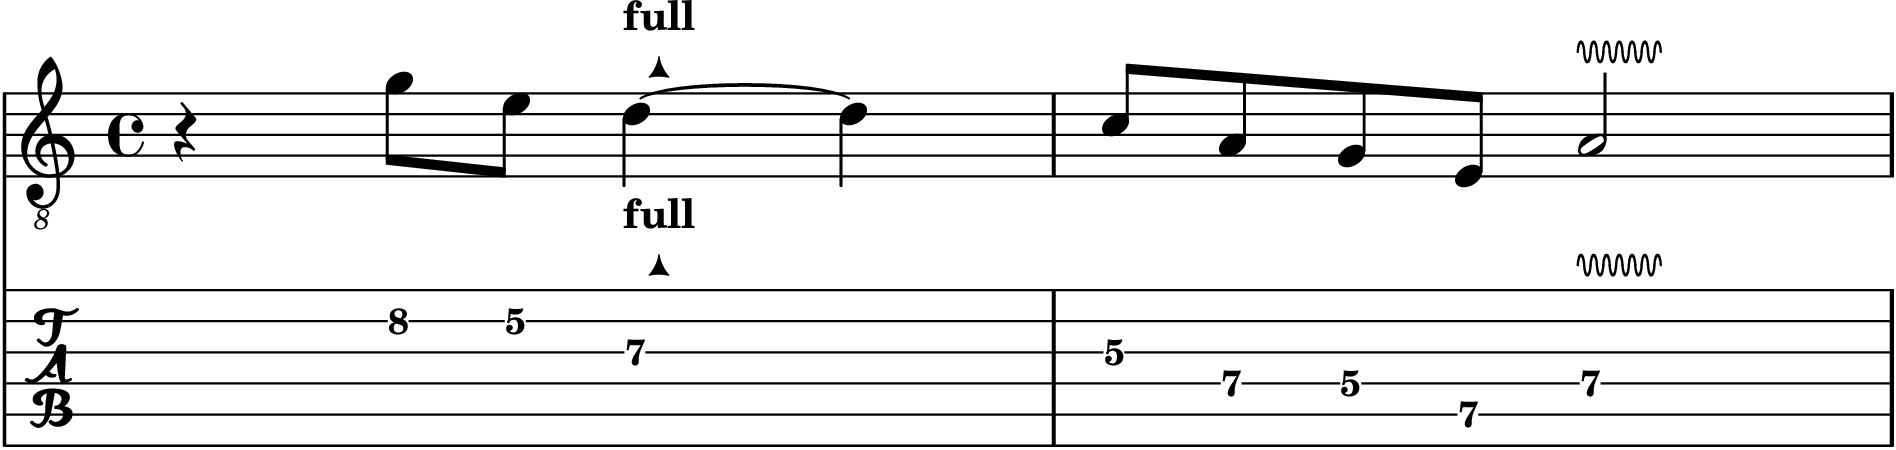
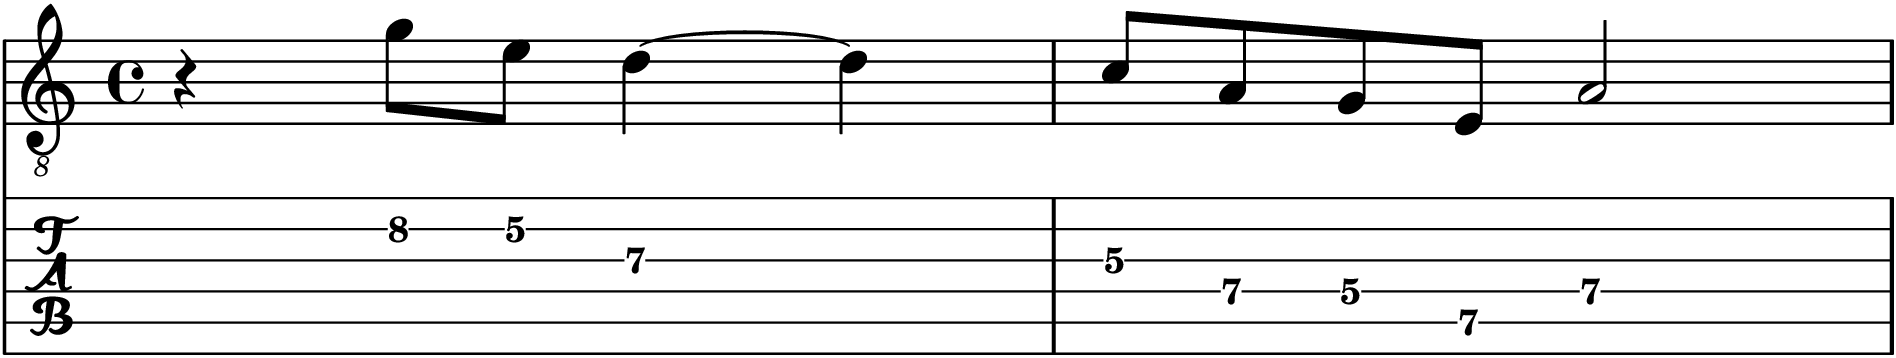
Hito 1: sacar bending y vibrato — son técnica del Hito 2, no de 'El Mapa'
Feli lo detectó en vivo: una alumna sin bending desarrollado se trabó en un
ejercicio del Hito 1, que se supone es geografía pura ('El Mapa'). Verificado
contra gen_scores.py (no hay gen_scores_h1.py separado, el Hito 1 vive ahí):
tenía razón. 4 de los 16 ejercicios usaban bending y/o vibrato de verdad —
un primer grep -c había dado falso positivo porque contaba también la
definición de plantilla que aparece en todo .ly, no el uso real dentro del
bloque musica={...}.

- Ej. 4 ('Tu primer lick con sabor', el nombre ya lo decía): bending + vibrato
  en la semana 1, antes de que el Hito 2 exista en el camino del alumno.
- Ej. 8: bending + vibrato en la semana 2.
- Ej. 11: vibrato largo de cierre, semana 3.
- Ej. 16 (el solo de evaluación, el entregable): 3 vibratos — réplica de lo
  de arriba, consecuencia directa, no un bug aparte.
- Estaba también en el glosario de notación y en la rutina diaria ('Acá
  aparece el sabor: bending, vibrato, slide' — la marca del Hito 2, adentro
  del Hito 1), y el checklist de cierre pedía certificar dominio de las dos
  técnicas antes de que el programa las hubiera enseñado en ningún lado.

Arreglo: se sacó el markup \bendFull/\vib de gen_scores.py sin tocar una
sola nota ni el ritmo — mismo fraseo, misma digitación. El ej. 8 conserva
su slide (eso sí es Hito 1 legítimo, el puente del ej. 7). Se actualizó el
texto de build_hito1.py (títulos, glosario, rutina, 2 filas del checklist)
y se documentó en memoria/10, sección 35.
[…]

diff --git a/scripts/build_hito1.py b/scripts/build_hito1.py
@@ -49,11 +49,8 @@ S.append(Paragraph(
 S.append(tabla([
     [Paragraph("<b>Símbolo</b>", CELLB), Paragraph("<b>Qué es</b>", CELLB), Paragraph("<b>Cómo se toca</b>", CELLB)],
     [Paragraph("línea entre dos números", CELL), Paragraph("Slide", CELL),
-     Paragraph("Tocás la primera y te deslizás a la segunda sin levantar el dedo ni volver a puntear.", CELL)],
-    [Paragraph('"bend 1 tono"', CELL), Paragraph("Bending", CELL),
-     Paragraph("Empujás la cuerda hasta que suene DOS trastes más arriba. Afinado, o no cuenta.", CELL)],
-    [Paragraph('"vibrato"', CELL), Paragraph("Vibrato", CELL),
-     Paragraph("Movés la cuerda arriba y abajo, parejo. Es tu firma: sin vibrato la nota queda muerta.", CELL)],
+     Paragraph("Tocás la primera y te deslizás a la segunda sin levantar el dedo ni volver a puntear. Es el "
+               "único movimiento nuevo de este mes — el que te lleva de una caja a otra.", CELL)],
     [Paragraph("punto rojo con A", CELL), Paragraph("Tónica (La)", CELL),
      Paragraph("Tu casa. Empezar y terminar frases ahí es lo que hace que suene resuelto.", CELL)],
 ], [3.2 * cm, 2.4 * cm, W - 5.6 * cm]))
@@ -66,7 +63,7 @@ S.append(tabla([
     [Paragraph("5–10", CELLB), Paragraph("Secuencias / tónicas", CELL),
      Paragraph("Que la mano deje de ir en línea recta y el oído ubique el LA.", CELL)],
     [Paragraph("10–15", CELLB), Paragraph("El lick o el puente de la semana", CELL),
-     Paragraph("Acá aparece el sabor: bending, vibrato, slide.", CELL)],
+     Paragraph("Acá conectás territorio: el slide que te cruza de caja, o el ritmo que convierte la escala en frase.", CELL)],
     [Paragraph("15–20", CELLB), Paragraph("<b>Improvisás</b> sobre backing en Lam", CELL),
      Paragraph("Sin papel. Usás SOLO lo de esta semana. Es la parte más importante.", CELL)],
 ], [1.5 * cm, 6.4 * cm, W - 7.9 * cm]))
@@ -144,11 +141,11 @@ S.append(ejercicio(3, "Secuencia de a 4 (romper la línea recta)", (
     "del cuadernillo y el que más se te va a notar."),
     "e03", W, "60 BPM, meta 75. Si te trabás, hacé solo el primer compás 20 veces antes de seguir."))
 
-S.append(ejercicio(4, "Tu primer lick con sabor", (
-    "Cuatro tiempos de música de verdad. El <b>bending de 1 tono</b> va en la 3ª cuerda traste 7: empujás hasta "
-    "que suene igual que el traste 9. Compará: tocá el 9, escuchalo, después bendeá el 7 hasta que suene "
-    "idéntico. El <b>vibrato</b> del final es lo que separa a un alumno de un guitarrista: movelo parejo, sin apuro."),
-    "e04", W, "Repetilo 10 veces por día toda la semana. Grabate el viernes y escuchá si el bending llega afinado."))
+S.append(ejercicio(4, "Una frase, no una escala", (
+    "Cuatro tiempos con un silencio adelante y una nota larga en el medio — todavía no hay ningún truco nuevo "
+    "en la mano. Lo que cambia es el <b>ritmo</b>: dejás de subir y bajar parejo, y eso solo ya alcanza para "
+    "que suene a frase y no a ejercicio."),
+    "e04", W, "Repetilo 10 veces por día toda la semana. Tocalo con el backing y fijate que respetás el silencio del principio."))
 
 # ============================================================ SEMANA 2
 S.append(PageBreak())
@@ -180,8 +177,8 @@ S.append(ejercicio(7, "EL PUENTE — de la caja 1 a la caja 2", (
     "e07", W, "60 BPM. Cuando salga, probá el mismo cruce en la 2ª cuerda (8 a 10) y en la 3ª (7 a 9): es la misma idea."))
 
 S.append(ejercicio(8, "Un lick que cruza las dos cajas", (
-    "Acá se junta todo: bending en la caja 1, slide al medio, y el vibrato final ya en la caja 2. "
-    "Cuando puedas tocar esto sin pensarlo dejaste de tener dos cajas: tenés una sola zona de 6 trastes."),
+    "Una frase completa que arranca en la caja 1 y, con el mismo slide del ejercicio 7, termina en la "
+    "caja 2. Cuando puedas tocar esto sin pensarlo dejaste de tener dos cajas: tenés una sola zona de 6 trastes."),
     "e08", W, "Repetilo 10 veces por día. Después improvisá 5 minutos usando SOLO estas dos cajas."))
 
 # ============================================================ SEMANA 3
@@ -207,7 +204,7 @@ S.append(ejercicio(10, "La caja 4, ida y vuelta", (
 
 S.append(ejercicio(11, "Dos puentes encadenados (2 a 3 a 4)", (
     "Dos slides seguidos: del 10 al 12 en la 1ª cuerda (entrás a la caja 3) y del 10 al 13 en la 2ª "
-    "(entrás a la caja 4). Terminás con un vibrato largo en la 3ª cuerda traste 14: esa nota es un LA, "
+    "(entrás a la caja 4). Terminás en una nota larga en la 3ª cuerda traste 14: esa nota es un LA, "
     "por eso suena a llegada."),
     "e11", W, "Lento, 55 BPM si hace falta. La prolijidad de los slides importa más que la velocidad."))
 
@@ -264,7 +261,7 @@ S.append(ejercicio(15, "Bajar el mástil en diagonal", (
 
 S.append(Paragraph("EJERCICIO 16 — EL SOLO DE EVALUACIÓN (tu entregable)", H2))
 S.append(Paragraph(
-    "Ocho compases que recorren las cinco cajas y usan todo lo del mes: espacio, bending, vibrato, slides y un cierre "
+    "Ocho compases que recorren las cinco cajas y usan todo lo del mes: espacio, ritmo variado, slides y un cierre "
     "en la tónica. No es un examen de velocidad: <b>es un examen de mapa</b>. Aprendetelo, tocalo sobre el backing, "
     "grabalo y mandámelo. Ese video es tu Hito 1 cerrado.", BODY))
 S.append(Spacer(1, 2))
@@ -290,10 +287,10 @@ S.append(tabla([
      Paragraph("Toco el ejercicio 12 entero, a tempo, sin cortes ni dudas.", CELL)],
     [Paragraph(CAJ, CELL), Paragraph("Bajo el mástil, no solo lo subo", CELL),
      Paragraph("Toco el ejercicio 15 con la misma soltura que el 12.", CELL)],
-    [Paragraph(CAJ, CELL), Paragraph("Mi bending llega afinado", CELL),
-     Paragraph("Grabo el ejercicio 4 y al escucharlo el bending suena igual que el traste de destino.", CELL)],
-    [Paragraph(CAJ, CELL), Paragraph("Tengo vibrato, no temblor", CELL),
-     Paragraph("En la grabación el vibrato es parejo y controlado, no un tembleque nervioso.", CELL)],
+    [Paragraph(CAJ, CELL), Paragraph("Toco una frase, no una escala", CELL),
+     Paragraph("Grabo el ejercicio 4 y se escucha un silencio real al principio y una nota que se sostiene.", CELL)],
+    [Paragraph(CAJ, CELL), Paragraph("Cruzo de caja adentro de una frase", CELL),
+     Paragraph("Toco el ejercicio 8 entero y suena a una frase sola, no a dos mitades pegadas.", CELL)],
     [Paragraph(CAJ, CELL), Paragraph("<b>Grabé el ejercicio 16 y lo mandé</b>", CELL),
      Paragraph("El video existe. Es el entregable del hito.", CELL)],
 ], [0.9 * cm, 6.3 * cm, W - 7.2 * cm]))

diff --git a/scripts/gen_scores.py b/scripts/gen_scores.py
@@ -113,8 +113,8 @@ EJ["e03"] = r"""
 """
 
 EJ["e04"] = r"""
-  r4 g'8\2 e'\2 d'4\3 \tabSym \bendFull ~ d'4 |
-  c'8\3 a\4 g\4 e\5 a2\4 \tabSym \vib |
+  r4 g'8\2 e'\2 d'4\3 ~ d'4 |
+  c'8\3 a\4 g\4 e\5 a2\4 |
 """
 
 # ===== SEMANA 2 — CAJA 2 (trastes 7-10) =====
@@ -138,8 +138,8 @@ EJ["e07"] = r"""
 """
 
 EJ["e08"] = r"""
-  r8 a'8\1 g'\2 e'\2 d'4\3 \tabSym \bendFull c'4\3 |
-  d'8\3 \glissando e'\3^\markup{\bold "ya estás en caja 2"} g'4\2 a'2\2 \tabSym \vib |
+  r8 a'8\1 g'\2 e'\2 d'4\3 c'4\3 |
+  d'8\3 \glissando e'\3^\markup{\bold "ya estás en caja 2"} g'4\2 a'2\2 |
 """
 
 # ===== SEMANA 3 — CAJAS 3 y 4 =====
@@ -160,7 +160,7 @@ EJ["e11"] = r"""
   e''8\1 c''\2 a'\2 g'\3 e'\3 d'\4 c'\4 a\5 |
   a8\5 c'\4 d'\4 g'\3 a'\2 \glissando c''4.\2^\markup{\bold "sl. → caja 4"} |
   d''8\2 e''\1 g''\1 e''\1 d''4\2 c''4\2 |
-  a'1\3 \tabSym \vib |
+  a'1\3 |
 """
 
 EJ["e12"] = r"""
@@ -192,13 +192,13 @@ EJ["e15"] = r"""
 
 EJ["e16"] = r"""
   r4 g'8\2 a'\1 c''4\1 ~ c''4 |
-  a'8\1 g'\2 e'2.\2 \tabSym \vib ^\markup{\bold "dejá respirar"} |
+  a'8\1 g'\2 e'2.\2 ^\markup{\bold "dejá respirar"} |
   d'8\3 e'\3 g'\2 a'\2 c''4\1 d''4\1 |
-  e''2\1 \tabSym \vib ^\markup{\bold "nota larga"} r2 |
+  e''2\1 ^\markup{\bold "nota larga"} r2 |
   g''8\1 e''\1 d''\2 c''\2 a'4\3 g'4\3 |
   e'8\3 d'\4 c'\4 a\5 g4\5 e4\5 |
   a,8\6 c\6 d\5 e\5 g\4 a\4 c'\3 d'\3 |
-  a'1\1 \tabSym \vib ^\markup{\bold "cerrás en casa"} |
+  a'1\1 ^\markup{\bold "cerrás en casa"} |
 """
 
 

diff --git a/memoria/10-notas-tecnicas-asistente.md b/memoria/10-notas-tecnicas-asistente.md
@@ -1036,3 +1036,51 @@ sesiones sin que esta memoria se enterara.
 `octavas_84_87.png` adjunta) con los 3 puntos reales: el recuadro del ej. 46, la puerta de octavas, y
 el bug del 41-ter. Los otros 3 ítems de la lista de 6 no requieren prompt (2 ya resueltos, 1 sin
 archivo que corregir, 2 son de la carpeta de Feli).
+
+## 35) EL HITO 1 TENÍA BENDING Y VIBRATO — TÉCNICA DEL HITO 2, ADENTRO DEL "MAPA"
+
+Feli lo detectó en vivo, dando clase: una alumna sin la técnica de bending desarrollada se trabó en
+un ejercicio del Hito 1, y a él "le hizo ruido" — el Hito 1 se llama "El Mapa" y se supone que es
+geografía pura; el bending/vibrato es la firma del Hito 2 ("El Sabor"). Verificado contra la fuente
+(no contra esta memoria): tenía razón, y era peor de lo que sonaba.
+
+**El bug, con números:** de los 16 ejercicios del Hito 1, **4 usaban bending y/o vibrato real**
+(no solo la definición de plantilla que aparece en todo `.ly` — eso generó un falso positivo en el
+primer chequeo con `grep -c`, había que mirar adentro del bloque `musica={...}`):
+- **Ej. 4** ("Tu primer lick con sabor" — el nombre ya lo decía) mete bending Y vibrato en la
+  **semana 1**, antes de que el Hito 2 exista en el camino del alumno.
+- **Ej. 8** repite bending + vibrato en la semana 2.
+- **Ej. 11** cierra con un vibrato largo (semana 3).
+- **Ej. 16** (el solo de evaluación, el entregable del hito) reutiliza vibrato tres veces — y esto
+  es en rigor una réplica intencional de lo enseñado antes en el mismo hito (el propio texto decía
+  *"usan todo lo del mes: espacio, bending, vibrato, slides"*), no un bug independiente: es la
+  consecuencia directa de que los ej. 4/8/11 ya lo tuvieran.
+- Y estaba **incrustado en el material de referencia del propio cuadernillo**: el glosario "Cómo
+  leer los ejercicios" enseñaba la notación de bend/vibrato como si el alumno la fuera a necesitar
+  ese mes, y la rutina diaria de 20 minutos decía textual, en el bloque de los minutos 10-15:
+  *"Acá aparece el sabor: bending, vibrato, slide."* — con la palabra "sabor" (la marca registrada
+  del Hito 2) adentro del Hito 1.
+- Y el checklist de cierre le pedía al alumno **certificar dominio de bending y vibrato**
+  ("Mi bending llega afinado" / "Tengo vibrato, no temblor") antes de que el programa se los
+  hubiera enseñado en ningún lado — el Hito 2 (ej. 21-26 bending, ej. 27-30 vibrato) todavía no
+  existe en la experiencia del alumno cuando cierra el Hito 1.
+
+**El arreglo (en `gen_scores.py`, fuente real del Hito 1 — no hay `gen_scores_h1.py` separado):**
+se sacó el markup `\bendFull` y `\vib` de los 4 ejercicios, **sin tocar una sola nota ni el ritmo** —
+mismo fraseo, misma digitación, solo se dejó de pedir una técnica que el alumno todavía no tiene.
+El ej. 8 conserva su slide (eso SÍ es Hito 1 legítimo: el mismo puente del ej. 7). Se actualizó el
+texto de los ej. 4, 8, 11, 16, el glosario y la rutina diaria en `build_hito1.py`, y se reemplazaron
+las 2 filas del checklist por otras que sí miden lo que el hito enseña de verdad (frase con silencio
+real, cruzar de caja adentro de una frase). **Lo que se dejó sin tocar, a propósito:** el cierre
+"Y DESPUÉS DE ESTO, ¿QUÉ?" que anticipa el Hito 2 ("ligados, slides, bending, vibrato...") — eso es
+correcto, mira hacia adelante, no describe el contenido del propio Hito 1.
+
+**Verificado:** escala OK, barcheck OK en las 73 partituras, y la distribución de cajas del Hito 1
+sigue en **47.1%** fuera de la ventana 5-8 — idéntica a antes, porque no se movió ninguna nota, solo
+se sacó la técnica que no correspondía todavía.
+
+> **Regla que sale de acá:** un `grep -c` de un helper de LilyPond en el archivo completo cuenta
+> también las definiciones de plantilla (que aparecen en TODOS los `.ly`, se use o no la técnica).
+> Para saber si una técnica se usa de verdad hay que mirar adentro del bloque `musica={...}`, no
+> el archivo entero — el mismo error que ya se documentó antes con la validación de escala y el
+> contador de compases (sección 34): un validador que no mira lo que dice mirar.
